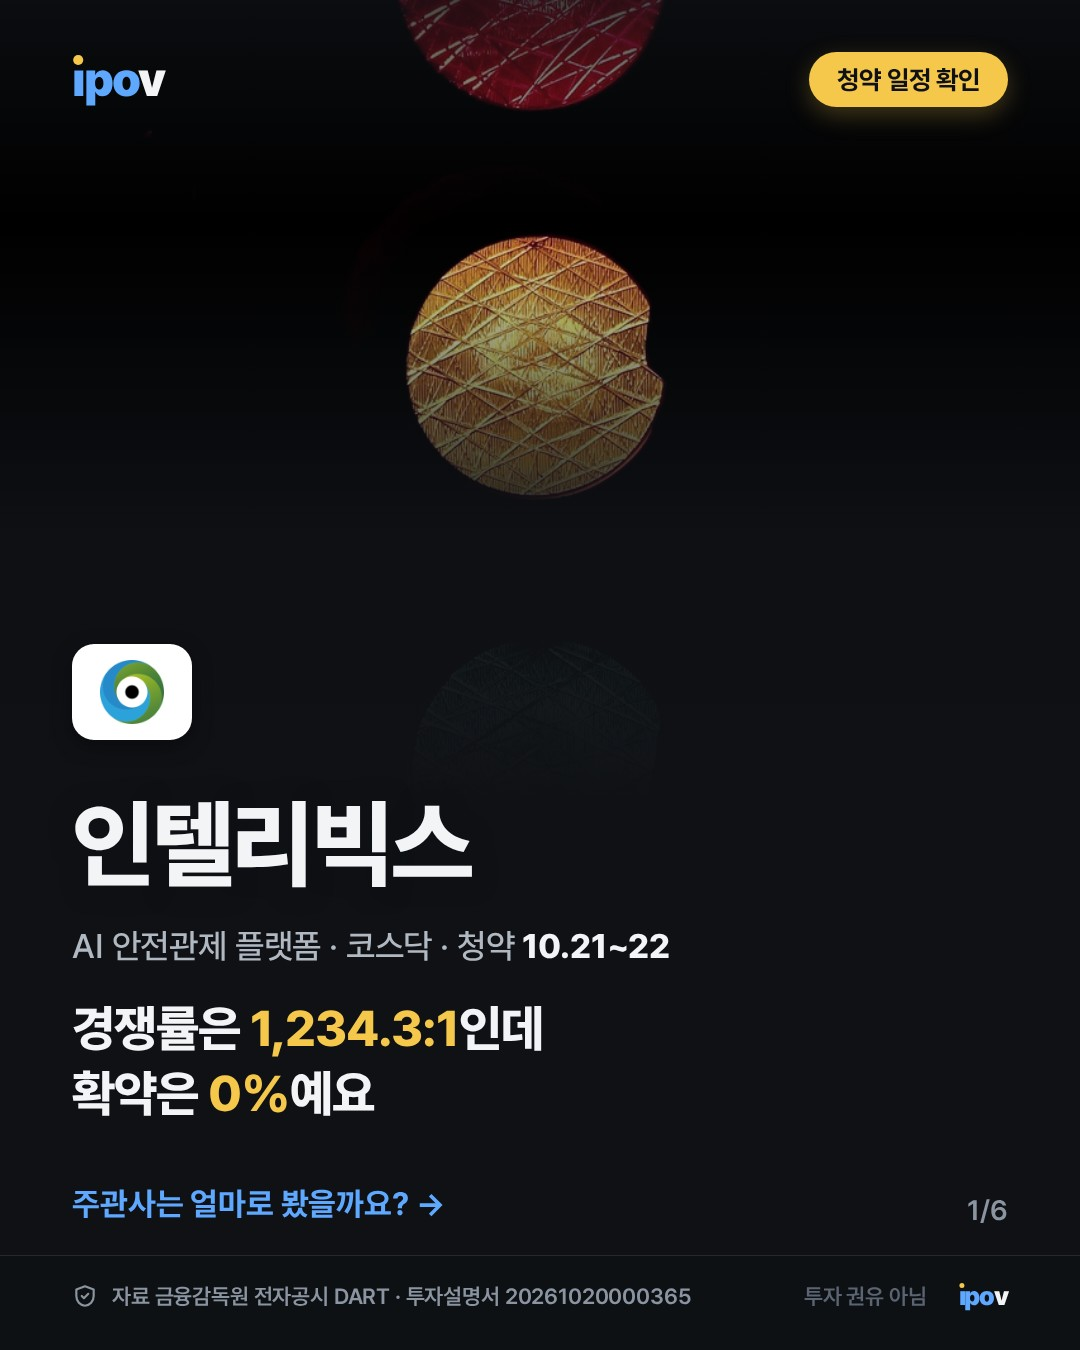
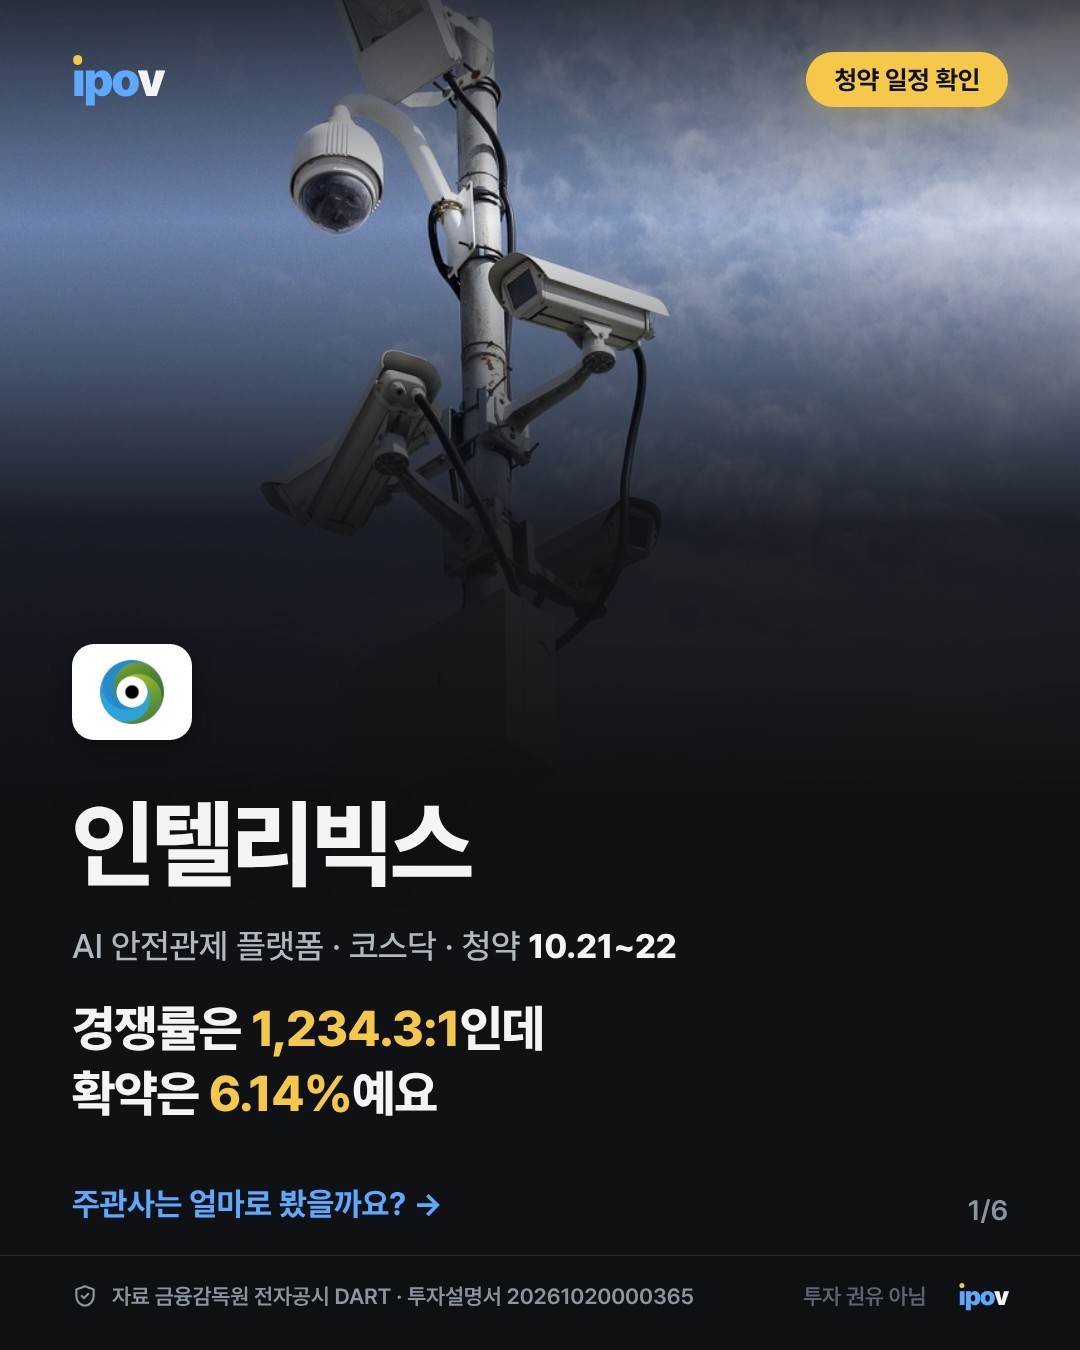
확약 비율 바로잡기: 다른 표의 합계를 잡아 0%로 읽던 문제, 0.01% 미만 반올림
- 인텔리빅스 0% → 6.14%, 크리에이츠 0% → 0.002% (5,000주). 오늘 승인된 두 게시물의 카드·카드뉴스 캡션을 다시 만듦 (릴스는 그대로)

Claude-Session: https://claude.ai/code/session_01RWgUqskGvnkiAiNs9uoSDE

diff --git a/gongsi/adapters/dart_doc.py b/gongsi/adapters/dart_doc.py
@@ -453,8 +453,10 @@ def parse(text: str) -> DocFacts:
         total_idx = -1
         for j in range(i, min(i + 80, len(lines))):
             c = _cells(lines[j])
-            if c and c[0].replace(" ", "") == "합계" and len(c) >= 3:
-                total_idx = j  # 마지막 합계(외국+합계 표)
+            # 마지막 합계(외국+합계 표). 단 바로 윗줄이 '…확약'(보통 '미확약')인 합계만: 80줄 안에 다른 표(배정 등)의 합계가 있으면
+            # 그걸 잡아 확약 0%로 읽던 문제 (2026-10-29 인텔리빅스: 실제 6.14%)
+            if c and c[0].replace(" ", "") == "합계" and len(c) >= 3 and j > i and "확약" in (_cells(lines[j - 1]) or [""])[0]:
+                total_idx = j
         if total_idx > 0:
             # 표 머리에 '합계' 열이 있으면 마지막 (건수|수량|신청가격) 묶음의 수량 = 합계. 없으면(국내 표만) 묶음별 수량을 더한다
             header_total = any("합계" in ln.replace(" ", "") and "구분" in ln.replace(" ", "") for ln in lines[max(i, total_idx - 10):total_idx])
@@ -474,7 +476,9 @@ def parse(text: str) -> DocFacts:
                     locked += q
                     rows.append(f"{c[0]}={q}")
             if total:
-                f.lockup_ratio_pct = round(locked / total * 100, 2)
+                r = locked / total * 100
+                # 0.01% 미만은 0%로 반올림되면 '확약 0%'로 오해되니 유효숫자 1자리 (2026-10-29 크리에이츠 5,000주 = 0.002%)
+                f.lockup_ratio_pct = round(r, 2) if r == 0 or r >= 0.01 else float(f"{r:.1g}")
                 f.derived[f"{f.lockup_ratio_pct:g}"] = f"lockup: ({' + '.join(rows)}) / {total} * 100"
                 f.found["lockup"] = f"합계 수량 {total}, 확약 {locked}"
 

diff --git a/tests/test_flow.py b/tests/test_flow.py
@@ -143,6 +143,23 @@ def test_decks_full_first_then_short_with_valuation_card():
     v = next(c for c in cards.build(f, s, date(2026, 10, 28), "x", phase="post")[0] if c.role == "valuation")
     assert v.title == "21,304원" and any("적정주가는 아니라고" in l for l in v.lines)
 
+
+def test_lockup_ratio_ignores_later_total_rows_and_keeps_tiny_values():
+    """2026-10-29: 확약 표 뒤 80줄 안의 다른 표 '합 계'를 잡아 0%로 읽던 문제(인텔리빅스 실제 6.14%),
+    0.01% 미만을 0%로 반올림하던 문제(크리에이츠 5,000주 = 0.002%)"""
+    from gongsi.adapters.dart_doc import parse
+    lines = ["요약정보", "(다) 의무보유 확약기간별 수요예측 참여내역",
+             "| 구 분 | 외국 기관투자자 | 합 계",
+             "| 6개월 확약 | - | - | - | 16 | 21,397,000 | 9,000",
+             "| 1개월 확약 | - | - | - | 14 | 15,340,000 | 9,000",
+             "| 미확약 | 68 | 54,156,000 | 9,038 | 2,221 | 2,277,579,000 | 9,016",
+             "| 합 계 | 70 | 55,603,000 | 9,055 | 2,251 | 2,314,316,000 | 9,016",
+             "(라) 배정 내역", "| 구분 | 배정 | 비율", "| 기관 | 100 | 10", "| 합 계 | 100 | 100"]
+    f = parse("\n".join(lines))
+    assert f.lockup_ratio_pct == round((21397000 + 15340000) / 2314316000 * 100, 2), f.lockup_ratio_pct
+    tiny = [l.replace("21,397,000", "5,000").replace("15,340,000", "-") for l in lines]
+    assert parse("\n".join(tiny)).lockup_ratio_pct == 0.0002
+
 if __name__ == "__main__":
     tests = [v for k, v in dict(globals()).items() if k.startswith("test_")]
     for t in tests:
